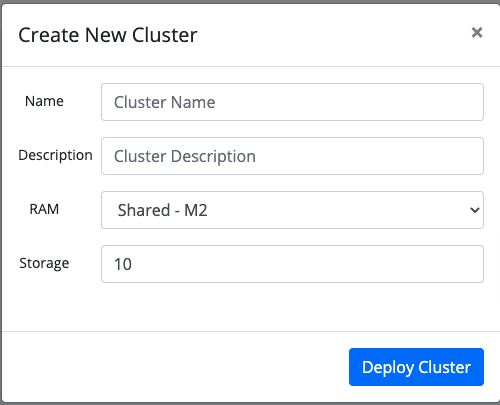
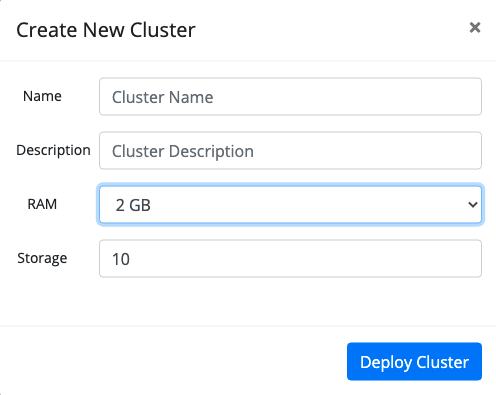
Updating w/ newer look

diff --git a/README.md b/README.md
@@ -1,7 +1,7 @@
 # minimal-atlas
 Minimalistic Atlas UI to grant developers the ability to quickly deploy an Atlas cluster while shielding them from the full power of the standard Atlas UI.
 ## To run
-```npm serve```
+```npx serve```
 ## To use
 ### first, create a cluster using the create cluster button
 
